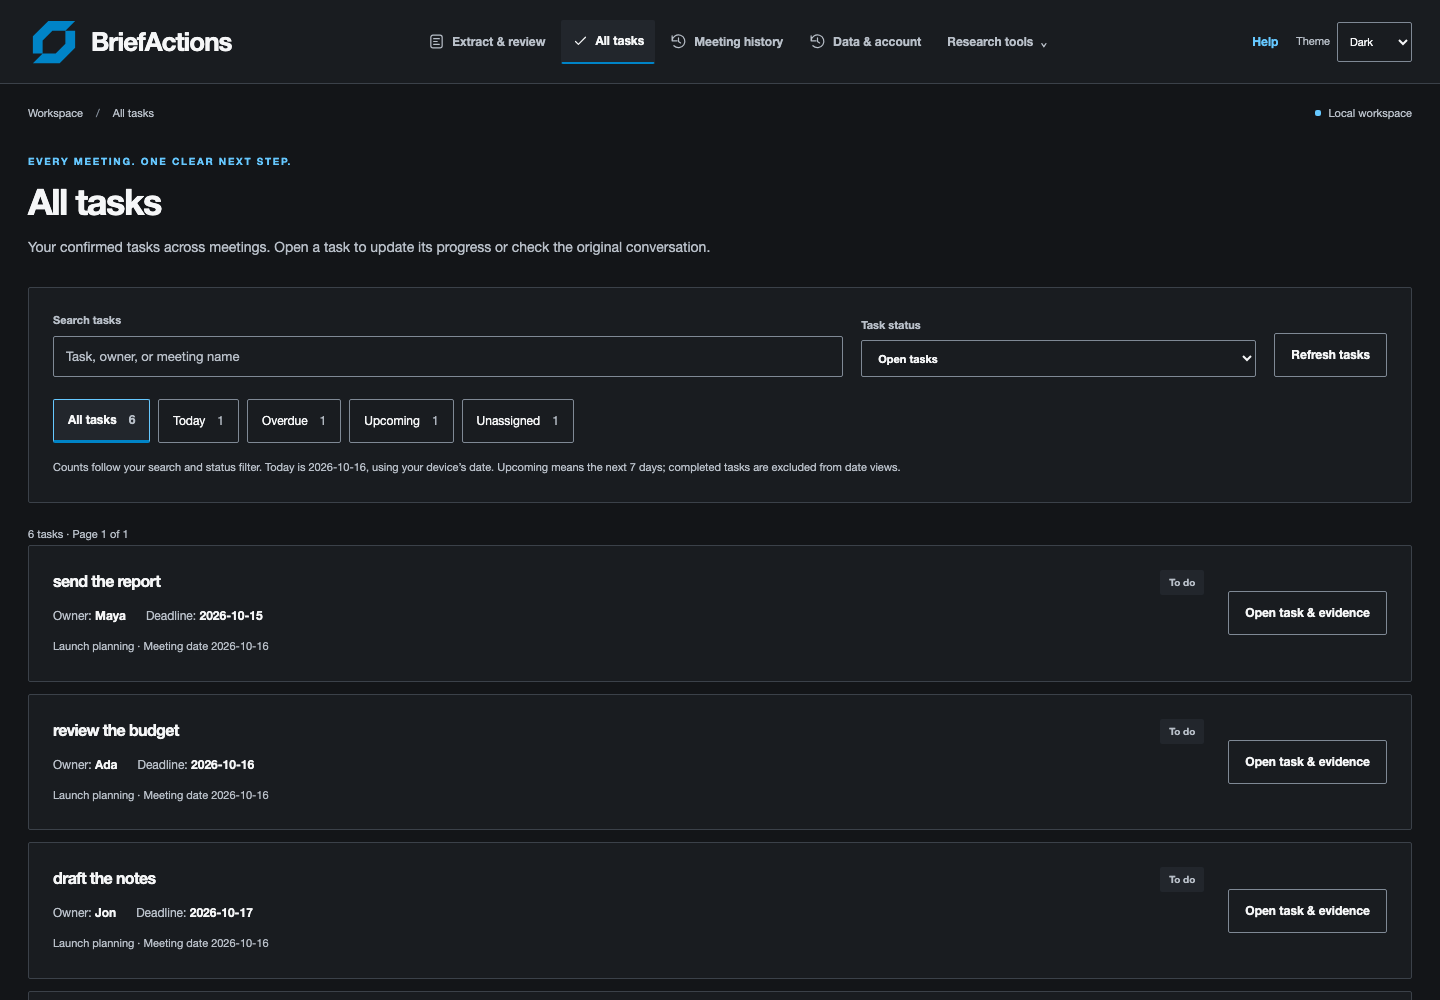
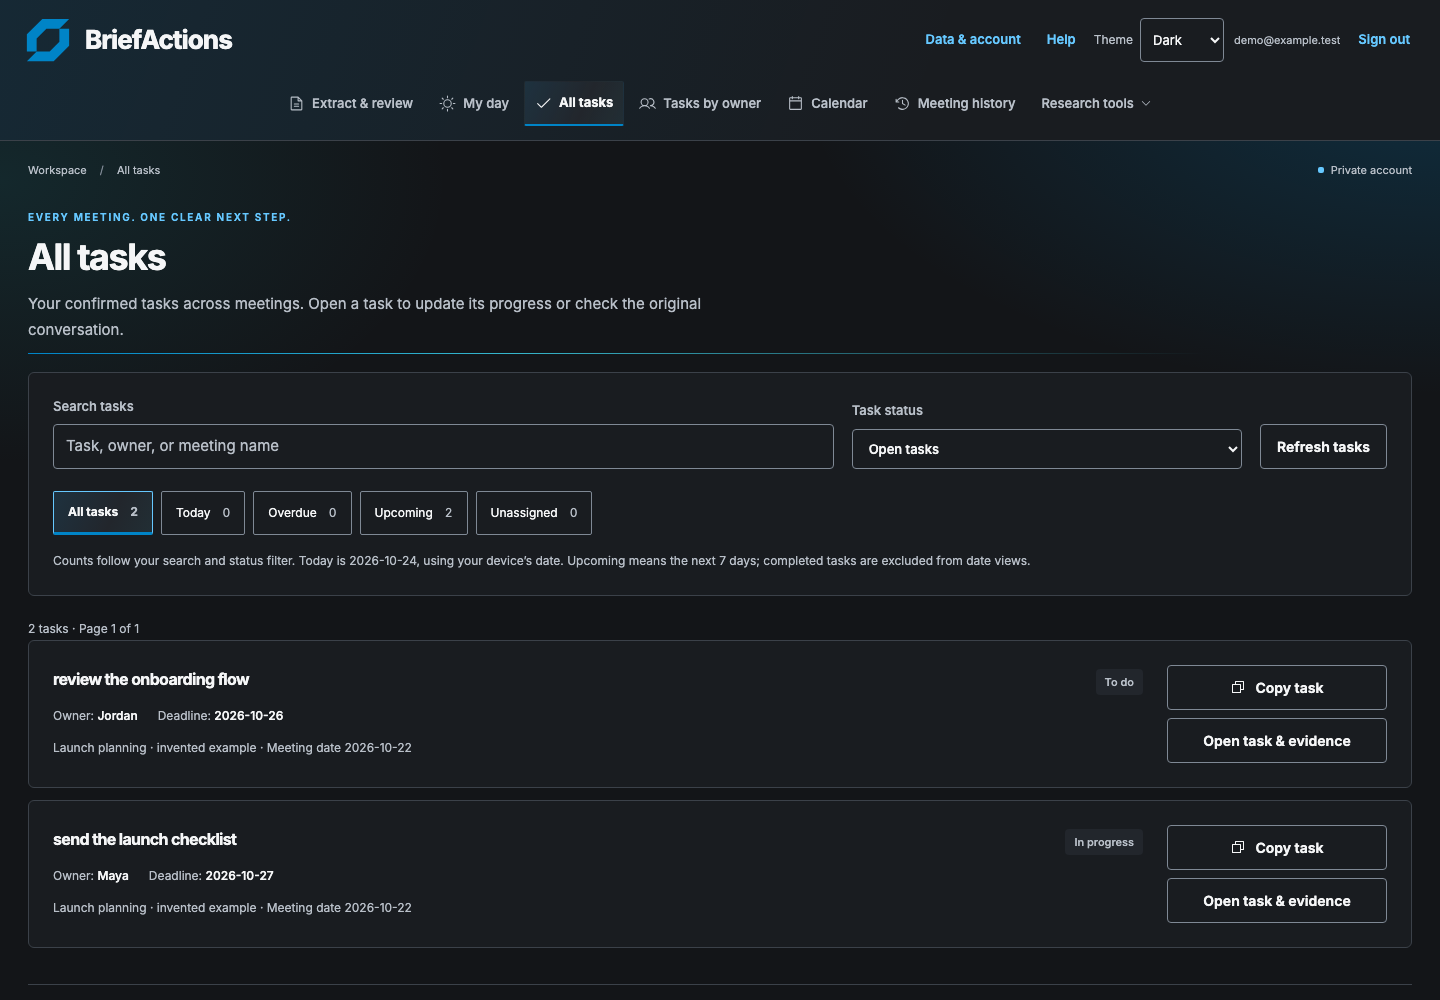
Prepare 2.0 release with a recovery rehearsal and current screenshots

diff --git a/CHANGELOG.md b/CHANGELOG.md
@@ -1,0 +1,62 @@
+# Release notes
+
+## 2.0.0 — 24 October 2026
+
+BriefActions is publicly available at [briefactions.onrender.com](https://briefactions.onrender.com).
+This is the first tagged release of the current React, Node, and Python application.
+
+### From a conversation to a reviewed plan
+
+- Extract tasks, owners, and dates with exact supporting passages. Missing details
+  remain **Unknown**; suggestions need an explicit review and confirmation.
+- Correct proposals, add missed actions, and recover unfinished reviews. Saved
+  evidence continues to refer to the original conversation after input edits.
+- Track progress in My day, All tasks, Tasks by owner, and Calendar. Change a
+  deadline with a reason while preserving the original date and supporting words.
+- Compare follow-up conversations before applying changes or cancellations. Group
+  recurring meetings, prepare agendas, and draft follow-up messages.
+- Import TXT, VTT, and SRT transcripts and export reviewed plans or account data.
+
+### A clearer, more resilient workspace
+
+- Public interactive demo, GitHub sign-in, separate account workspaces, and
+  first-use guidance. Optional Help includes walkthroughs and plain-language terms.
+- Light, Dark, and System themes, mobile agenda, keyboard evidence navigation,
+  reduced-motion support, and clearer feedback for waits, retries, and saved edits.
+- Workspace and research screens download on demand. The build enforces an
+  initial JavaScript budget; the current static entry graph is about **303 kB**
+  before compression, excluding CSS, fonts, and the on-demand auth SDK.
+- Interrupted writes retain their request identity for explicit recovery. Version
+  conflicts require review, and an older save cannot mark newer typing as saved.
+- Separate analysis/read worker lanes, persistent worker and database connection
+  reuse, private error references, and bounded single-instance capacity.
+
+### Release verification
+
+The [internal release check](docs/release-check.md) records the scope of the
+rehearsal, reproducible commands, and limitations. A new end-to-end browser journey
+checks rejected session refresh and same-account draft recovery as well as the
+review → task → corrected deadline → calendar flow. Screenshots use only an
+invented meeting and a disposable account fixture.
+
+CI also checks Python/API behavior, responsive browser flows, automated
+accessibility, real Postgres account isolation, encrypted backup/restore,
+development extraction quality gates, and a constrained production container.
+See [CI runs](https://github.com/sagar-varshney/BriefActions/actions/workflows/ci.yml)
+for results for each commit.
+
+### Current limitations
+
+- Extraction uses rules and can miss or misread commitments. Bundled evaluation
+  examples are synthetic and AI-authored, without independent human review;
+  benchmark results do not establish accuracy on real meetings.
+- Internal browser and visual checks do not establish first-user usability or
+  complete accessibility conformance. Independent user sessions are still pending.
+- Free hosting may sleep after inactivity and has limited concurrent capacity.
+  A lighter frontend does not remove the server wake-up delay.
+- Browser-only input drafts stay on that browser. Exported files and backups are
+  separate copies; backup scheduling and restore drills require operator setup.
+- Task owners are names within an account's plan. The app does not send messages,
+  invite assignees, or synchronize an external calendar automatically.
+
+No paid hosting or paid model service is required by this release.

diff --git a/docs/release-check.md b/docs/release-check.md
@@ -1,0 +1,64 @@
+# Internal release check — 2.0.0
+
+Date: **24 October 2026**. Content: invented meetings only.
+
+This is an internal release rehearsal. No new-user participants were available.
+The [first-user checklist](usability-check.md) remains an uncompleted research
+plan; it must not be reported as a completed study.
+
+## Reproducible checks
+
+Install the development dependencies and Chromium as described in
+[Development](development.md), then run:
+
+```sh
+pnpm build
+pnpm test:browser
+```
+
+For just the integrated journey, after building:
+
+```sh
+node tests/release-journey.browser.mjs
+```
+
+| Area | What the rehearsal checks |
+| --- | --- |
+| First use | A fresh authenticated fixture account opens Extract & review; the public homepage does not expose private records. |
+| Review | Real rules extract three actions; missing owner/date remain Unknown. Corrections and selection are explicit, and a located passage matches the source. |
+| Session recovery | The real browser SDK receives a rejected refresh. The workspace closes, sign-in returns to the meeting, and the same account recovers review choices and its unfinished input. |
+| Confirmation | Only two selected proposals become tasks. Saving a review alone does not confirm it. |
+| Follow-through | A progress update and a deadline correction with a reason appear in the task list and calendar. The original confirmed date and evidence remain intact. |
+| Read recovery | A simulated calendar outage offers an explicit retry and preserves the selected date. |
+| Export | The confirmed plan downloads successfully. Focused suites additionally check export content and interrupted downloads. |
+| Mobile and themes | Review and calendar are checked at 320 pixels and desktop width in Light and Dark. Mobile task selection works by keyboard; automated axe scans supplement visual inspection. |
+
+Auth responses are fixtures, and the server uses a temporary SQLite database. No
+production users, transcripts, or live OAuth settings are accessed by this test.
+The focused suites also cover conflicts, lost write responses, two-account browser
+isolation, imports, annotations, deletion, plan changes, recurring meetings, and
+responsive keyboard navigation. CI uses a separate disposable Postgres database
+for hosted storage, account isolation, and backup/restore checks.
+
+## Public deployment smoke check
+
+```sh
+node scripts/check_deployment.mjs live https://briefactions.onrender.com
+```
+
+This probes public routes, health, security headers, and rejection of unsigned or
+cross-origin private requests. It creates no records. It does **not** verify a live
+signed-in user's OAuth round trip, multi-account workflow, persistence across a
+redeploy, or a production backup restore. Those remain separate operator checks
+in [Launch checks](launch-checks.md).
+
+## Evidence and remaining validation
+
+Screenshots in the README come from `pnpm screenshots`, using the invented meeting
+in the integrated journey. Full suite logs and screenshots are retained as GitHub
+Actions artifacts under that run's retention policy. The release tag identifies
+the source; the workflow run identifies the exact tested commit.
+
+Before broader product claims, obtain independent first-user observations,
+manual assistive-technology testing, and permitted real-transcript annotations.
+No claims about those results follow from passing this internal rehearsal.

diff --git a/docs/development.md b/docs/development.md
@@ -15,7 +15,9 @@ React / Vite → Node HTTP API → Python bridge → extraction and history
 
 | Location | Responsibility |
 | --- | --- |
-| `web/src/main.jsx`, `web/src/styles.css` | Public homepage, sign-in, private workspace, themes, and responsive UI |
+| `web/src/main.jsx`, `web/src/AuthShell.jsx` | Public entry, sign-in, account scope, and deferred workspace loading |
+| `web/src/WorkspaceApp.jsx`, `web/src/styles.css` | Private workspace, themes, and responsive UI |
+| `web/src/DeferredSection.jsx`, `web/src/BenchmarkPage.jsx`, `web/src/AnnotationReviewer.jsx` | On-demand research screens and explicit chunk-load recovery |
 | `server/` | HTTP routes, authentication, request limits, worker lifecycle, and built asset serving |
 | `web_bridge.py`, `export_bridge.py` | JSON worker protocol and streaming workspace export |
 | `extraction.py`, `baseline_extractor.py` | Current evidence-backed rules and frozen original rules |
@@ -82,6 +84,7 @@ result focus, and both-theme accessibility.
 
 Public browser routes are `/`, `/sign-in`, `/auth/callback`, and `/privacy`.
 Workspace routes are `/meetings`, `/meetings/:id`, `/tasks`, `/history`, `/account`,
+`/today`, `/owners`, `/calendar`, `/history/series`,
 `/research/evaluation`, and `/research/annotations`. A meeting link can include
 `?task=<proposal-id>`. Sign-in preserves recognized same-origin destinations;
 signing out clears that destination. Hosted access is verified at the API, not
@@ -507,3 +510,29 @@ the runner's Azure mirror after observed slow package transfers. Signed package
 verification and fallback mirrors stay enabled. APT retries/timeouts and a five-
 minute installation limit bound infrastructure waits; missing dependencies still
 fail the job, and the browser/container checks are never skipped to publish.
+
+## Release rehearsal and screenshots
+
+`tests/release-journey.browser.mjs` follows one invented meeting from a fresh
+account through extraction, evidence inspection, correction/selection, an expired
+refresh token, re-authentication, confirmation, progress, a reasoned deadline
+correction, the calendar, and export. It checks an interrupted calendar read and
+mobile keyboard selection, plus automated accessibility in both themes.
+It uses the real Supabase browser SDK with provider responses supplied by local
+fixtures and a disposable SQLite database. It never contacts a live auth project
+or reads production accounts. This is internal QA, not a live OAuth or human
+usability study. It runs in `pnpm test:browser` alongside the focused suites.
+
+To refresh the README images from that same passing journey:
+
+```sh
+pnpm build
+pnpm screenshots
+```
+
+The command replaces the homepage, sign-in, review, task-list, and calendar images
+in `docs/screenshots/`, including light/dark review and mobile examples. Review the
+resulting images and Git diff before committing. Capture fails on a failed journey;
+it can leave partially refreshed images, so rerun successfully before publishing.
+Ordinary browser checks write captures to `FLOW_SCREENSHOTS` or a temporary folder
+and do not modify tracked images. No production credentials are needed.

diff --git a/README.md b/README.md
@@ -12,7 +12,7 @@ then follow the work through your task list and calendar.
 
 ![Review proposed tasks alongside the original transcript in BriefActions](docs/screenshots/review-light.png)
 
-*Shown with an invented example meeting.* [Dark mode](docs/screenshots/review-dark.png) · [All tasks](docs/screenshots/all-tasks-light.png)
+*Shown with an invented example meeting.* [Dark mode](docs/screenshots/review-dark.png) · [All tasks](docs/screenshots/all-tasks-light.png) · [Calendar](docs/screenshots/calendar-light.png)
 
 ## Get started
 
@@ -165,6 +165,7 @@ See the [evaluation methodology](evaluation/README.md) for datasets, results, an
 | [First deployment](docs/first-deploy.md) | Setup walkthrough for a new Render and Supabase project |
 | [Backups](docs/backups.md) | Encrypted snapshots and recovery; scheduling requires operator setup |
 | [Launch checks](docs/launch-checks.md) | Operational and live verification |
+| [Release notes](CHANGELOG.md) | Changes, internal verification, and current limitations |
 | [Evaluation](evaluation/README.md) | Annotation policy, scoring, and model experiments |
 
 A separate legacy FastAPI/RAG backend is preserved in `app/`; its
